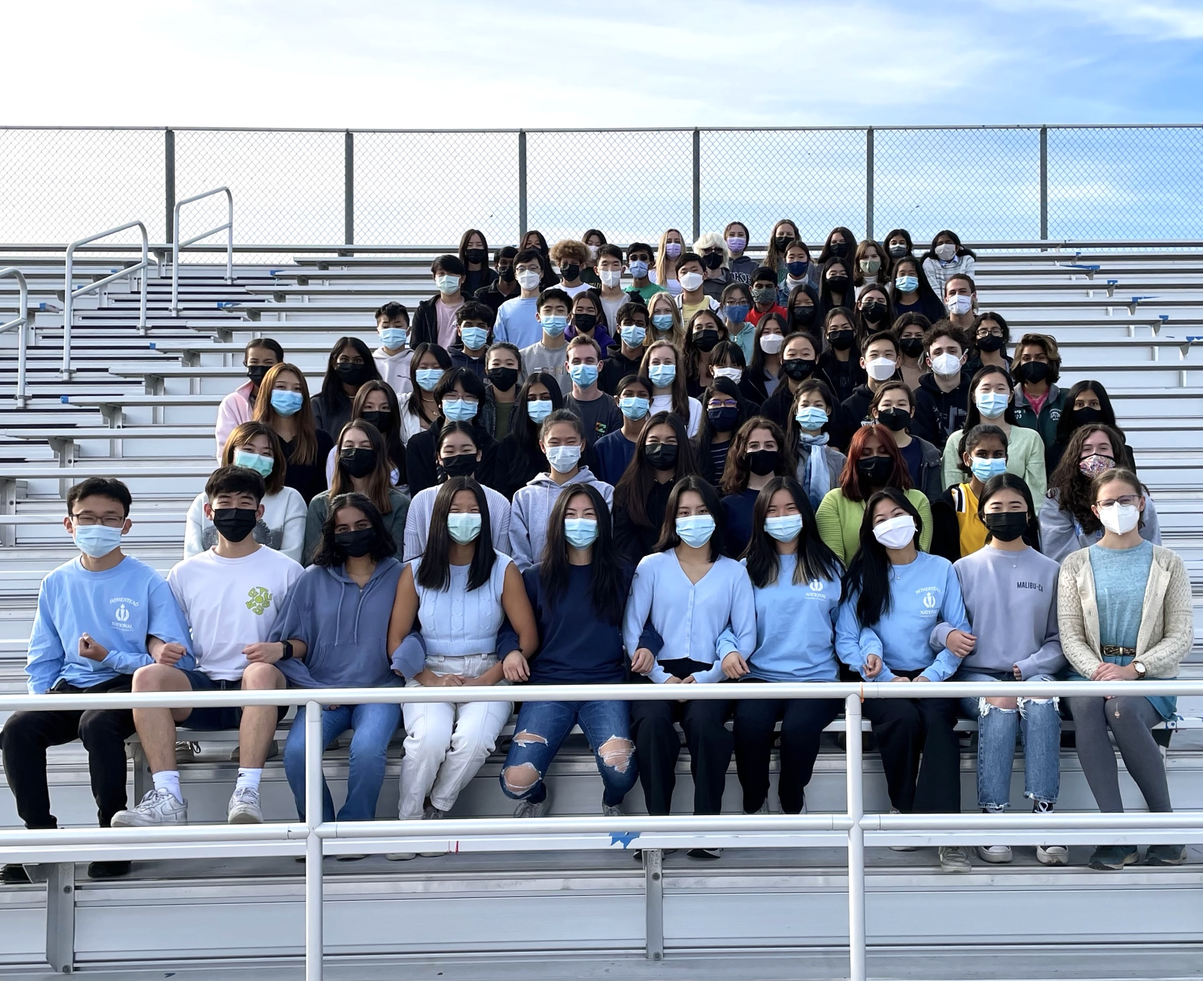
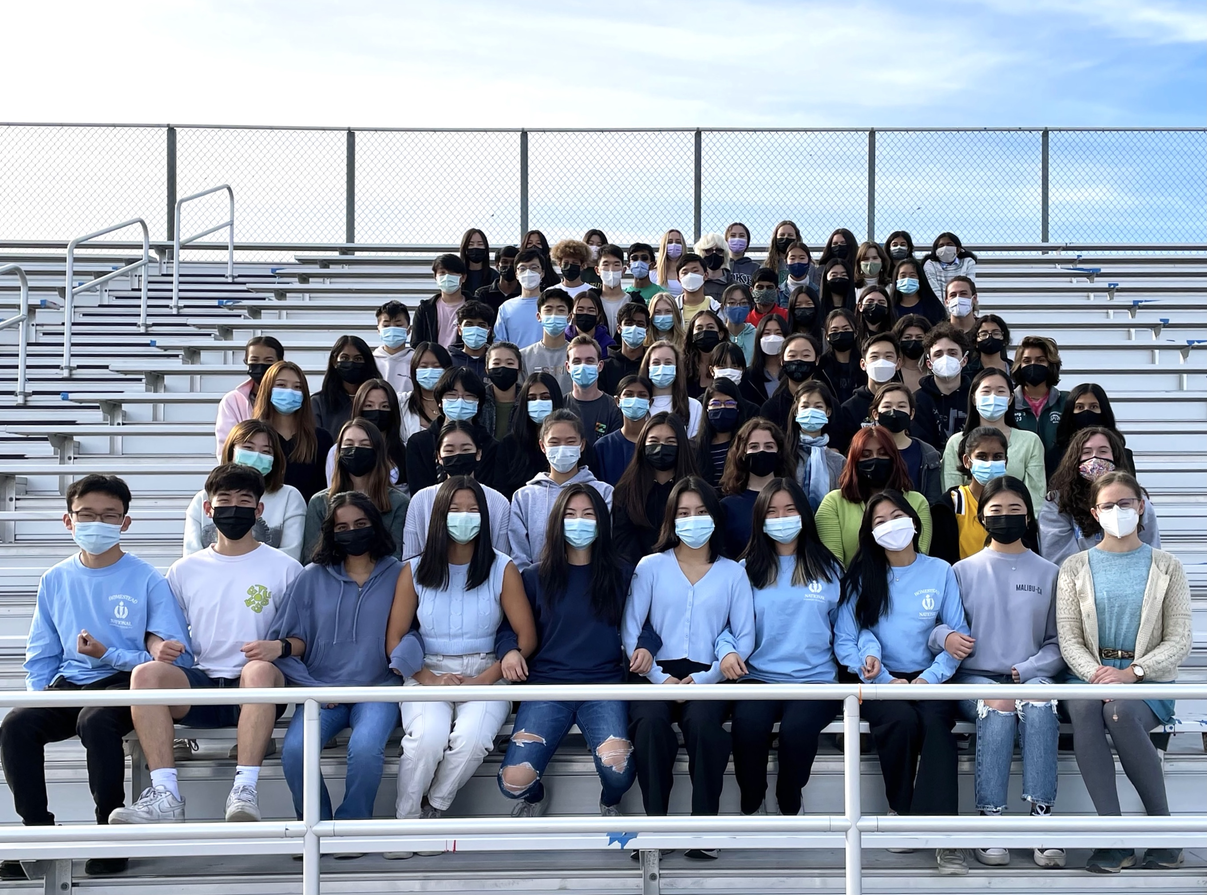
fitting the image

diff --git a/public/css/style.css b/public/css/style.css
@@ -43,7 +43,7 @@ html {
 	-moz-background-size: cover;
 	-o-background-size: cover;
 	background-position: top;
-	height: 800px;
+	height: auto;
 }
 
 .material-icons {
